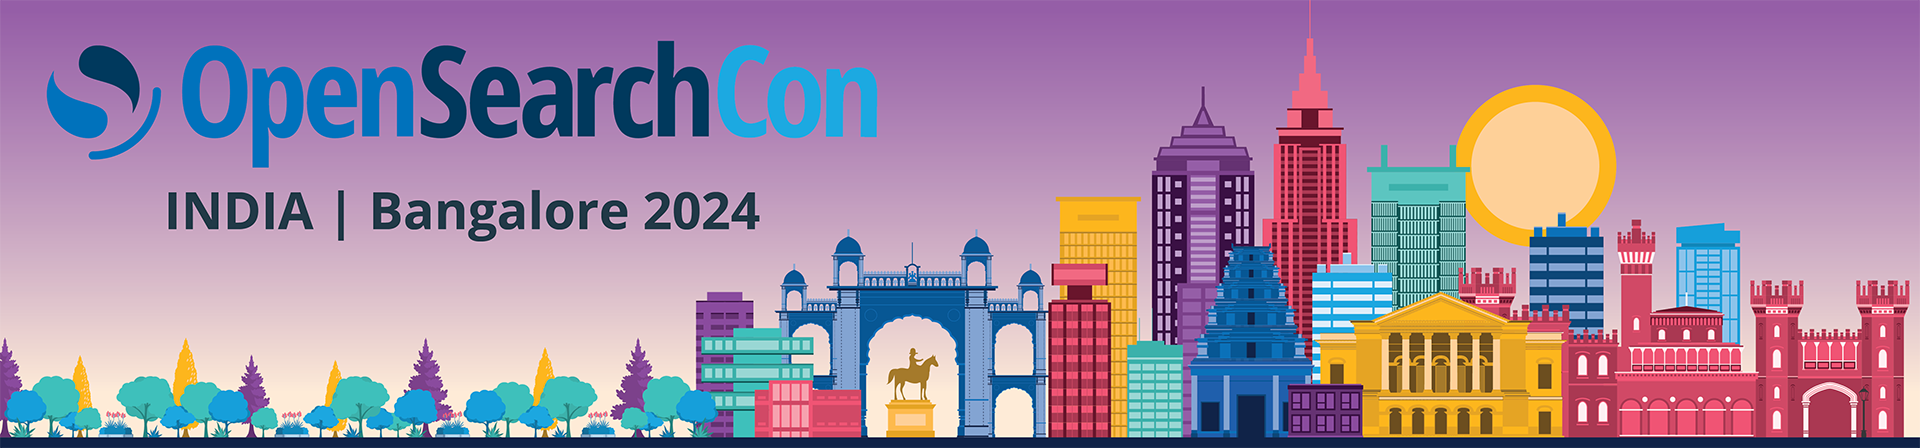
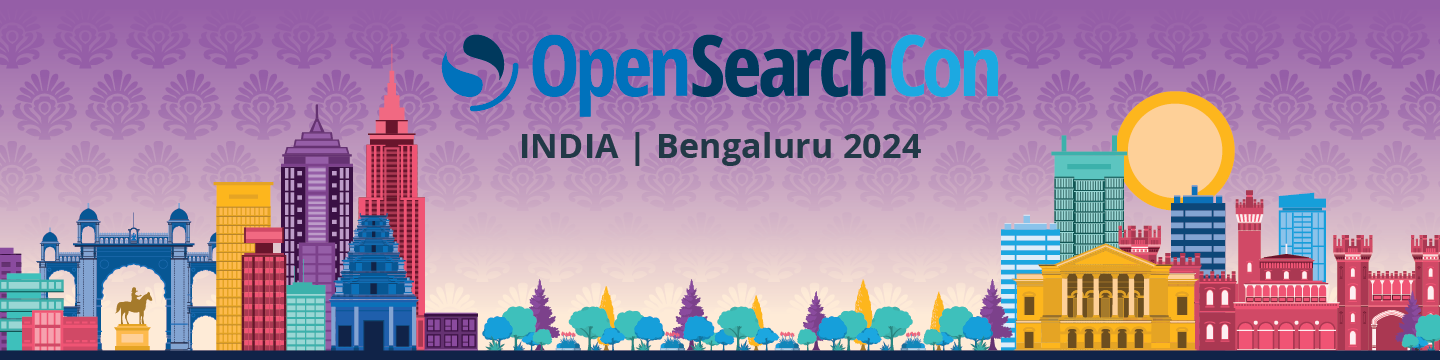
Graphics update and CfP end date.

diff --git a/events/opensearchcon/2024/india/cfp.md b/events/opensearchcon/2024/india/cfp.md
@@ -16,10 +16,10 @@ permalink: /events/opensearchcon/2024/india/cfp.html
 #has_hero: true
 hero_images:
   mobile:
-    path: /assets/media/opensearchcon/2024/OpenSearchCon_India_Banner.png
+    path: /assets/media/opensearchcon/2024/OpenSearchCon_India_CFP_Banner.png
     alt: OpenSearchCon 2024 hero banner image.
   desktop:
-    path: /assets/media/opensearchcon/2024/OpenSearchCon_India_Banner.png
+    path: /assets/media/opensearchcon/2024/OpenSearchCon_India_CFP_Banner.png
     alt: OpenSearchCon 2024 hero banner image.
 conference_sections_button_stack:
   - label: CFP
@@ -54,7 +54,7 @@ conference_sections_button_stack:
 #    date: Wednesday 09/21/2022
 #    thumbnail: /assets/media/opensearchcon/2022-roadmap-and-beyond.png
 ---
-![CFP Banner](/assets/media/opensearchcon/2024/OSC_India_CFP_Presentations_banner.png){: width="100%" }
+![CFP Banner](/assets/media/opensearchcon/2024/OpenSearchCon_India_CFP_Banner.png){: width="100%" }
 OpenSearchCon India 2024 welcomes ideas for presentations on topics the OpenSearch community cares about. We invite the community to submit your best ideas and join us for a great conference in Bangalore on June 26th, 2024. We are actively seeking a diverse set of developers/community members and encourage everyone to send in their ideas.
 
 ## What the OpenSearch community is interested in
@@ -80,7 +80,7 @@ This information will help the reviewers to get a good impression of your sessio
 
 ## When does it close
 
-CfP ends on **May 5th, 2024 at 23:59 IST**.
+CfP ends on **May 12th, 2024 at 23:59 IST**.
 
 ## View previous presentations
 

diff --git a/events/opensearchcon/2024/india/index.md b/events/opensearchcon/2024/india/index.md
@@ -56,6 +56,7 @@ conference_sections_button_stack:
 #    date: Wednesday 09/21/2022
 #    thumbnail: /assets/media/opensearchcon/2022-roadmap-and-beyond.png
 ---
+![CFP Banner](/assets/media/opensearchcon/2024/OpenSearchCon_India_Banner.png){: width="100%" }
 
 ## Join us in Bengaluru on June 26th 2024 for OpenSearchCon 2024 India.
 
